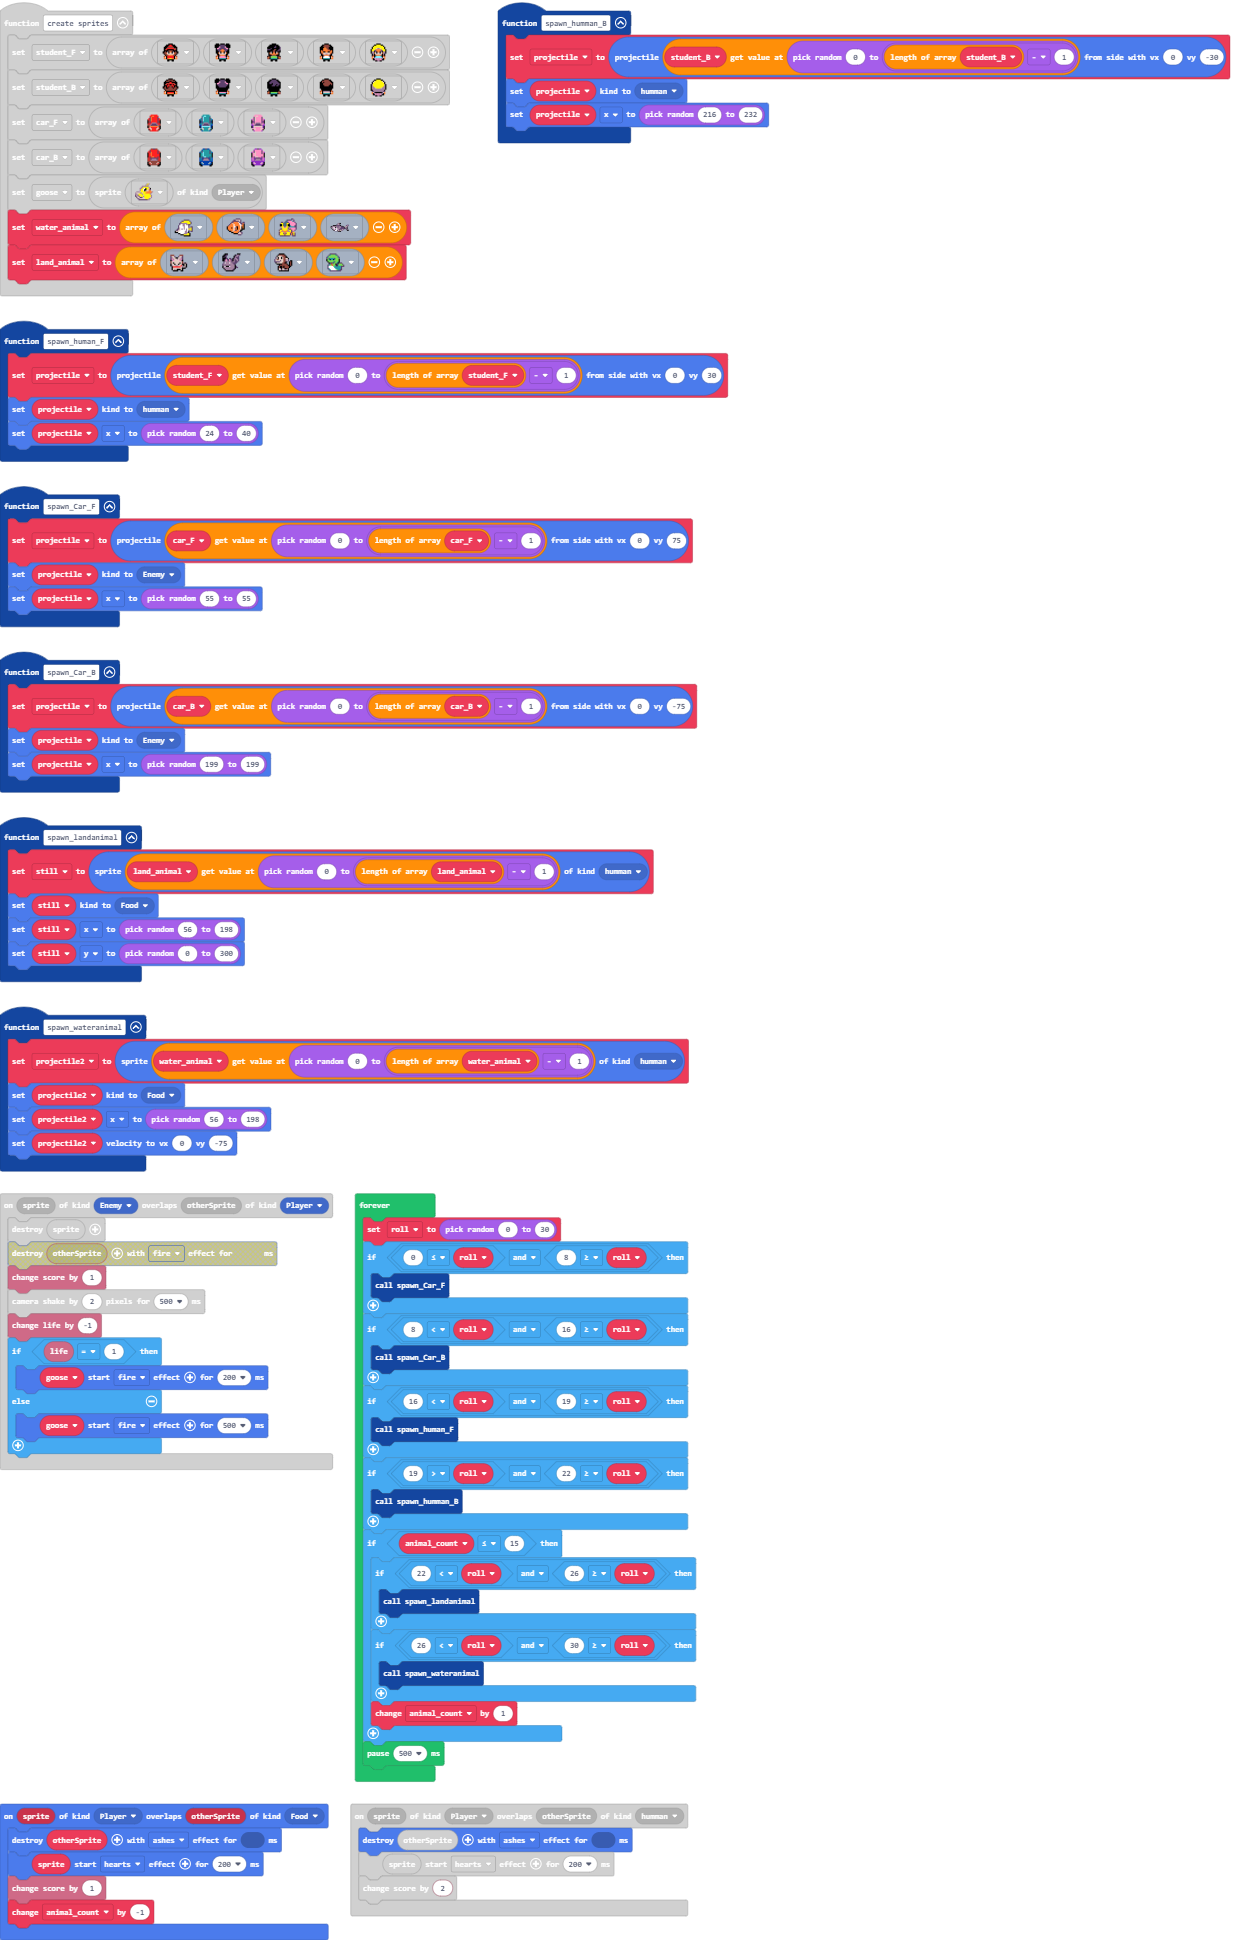
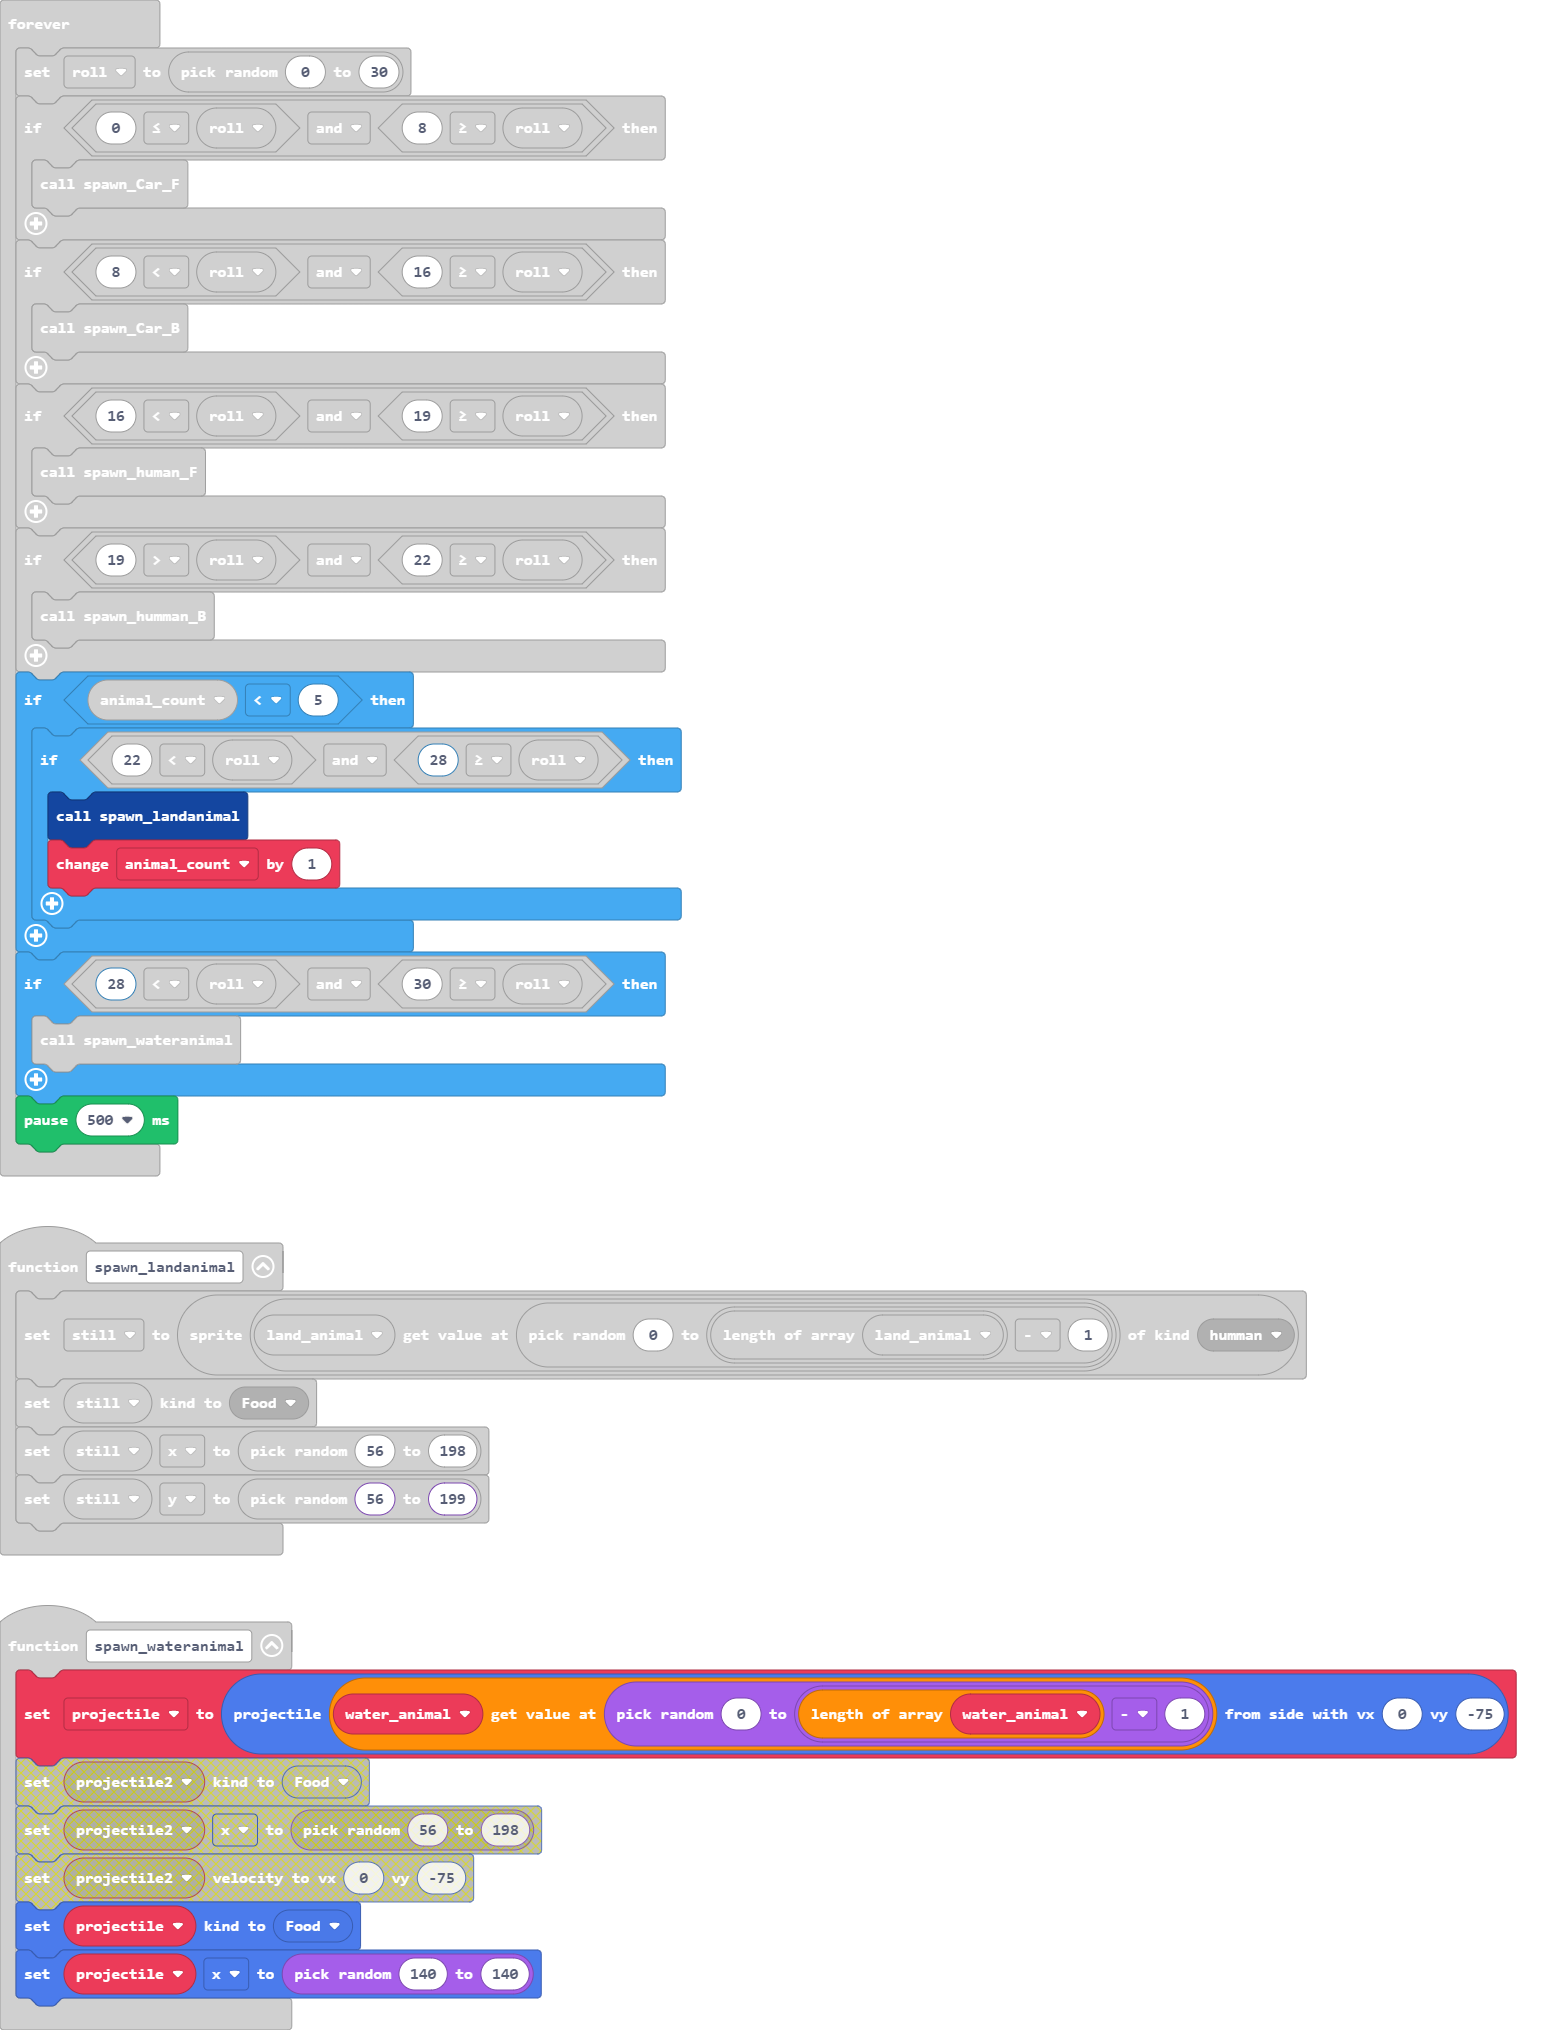
Update main.blocks, main.ts

diff --git a/main.ts b/main.ts
@@ -7,10 +7,9 @@ function spawn_human_F () {
     projectile.x = randint(24, 40)
 }
 function spawn_wateranimal () {
-    projectile2 = sprites.create(water_animal[randint(0, water_animal.length - 1)], SpriteKind.humman)
-    projectile2.setKind(SpriteKind.Food)
-    projectile2.x = randint(56, 198)
-    projectile2.setVelocity(0, -75)
+    projectile = sprites.createProjectileFromSide(water_animal[randint(0, water_animal.length - 1)], 0, -75)
+    projectile.setKind(SpriteKind.Food)
+    projectile.x = randint(140, 140)
 }
 function create_sprites () {
     student_F = [sprites.castle.heroWalkFront1, sprites.builtin.villager1WalkFront1, sprites.builtin.villager2WalkFront1, sprites.builtin.villager3WalkFront1, sprites.builtin.villager4WalkFront1]
@@ -53,7 +52,7 @@ function spawn_landanimal () {
     still = sprites.create(land_animal[randint(0, land_animal.length - 1)], SpriteKind.humman)
     still.setKind(SpriteKind.Food)
     still.x = randint(56, 198)
-    still.y = randint(0, 300)
+    still.y = randint(56, 199)
 }
 sprites.onOverlap(SpriteKind.Player, SpriteKind.humman, function (sprite, otherSprite) {
     otherSprite.destroy(effects.ashes)
@@ -74,7 +73,6 @@ let car_B: Image[] = []
 let car_F: Image[] = []
 let student_B: Image[] = []
 let water_animal: Image[] = []
-let projectile2: Sprite = null
 let student_F: Image[] = []
 let projectile: Sprite = null
 let goose: Sprite = null
@@ -111,14 +109,14 @@ forever(function () {
     if (19 > roll && 22 >= roll) {
         spawn_humman_B()
     }
-    if (animal_count <= 15) {
-        if (22 < roll && 26 >= roll) {
+    if (animal_count < 5) {
+        if (22 < roll && 28 >= roll) {
             spawn_landanimal()
+            animal_count += 1
         }
-        if (26 < roll && 30 >= roll) {
-            spawn_wateranimal()
-        }
-        animal_count += 1
+    }
+    if (28 < roll && 30 >= roll) {
+        spawn_wateranimal()
     }
     pause(500)
 })
